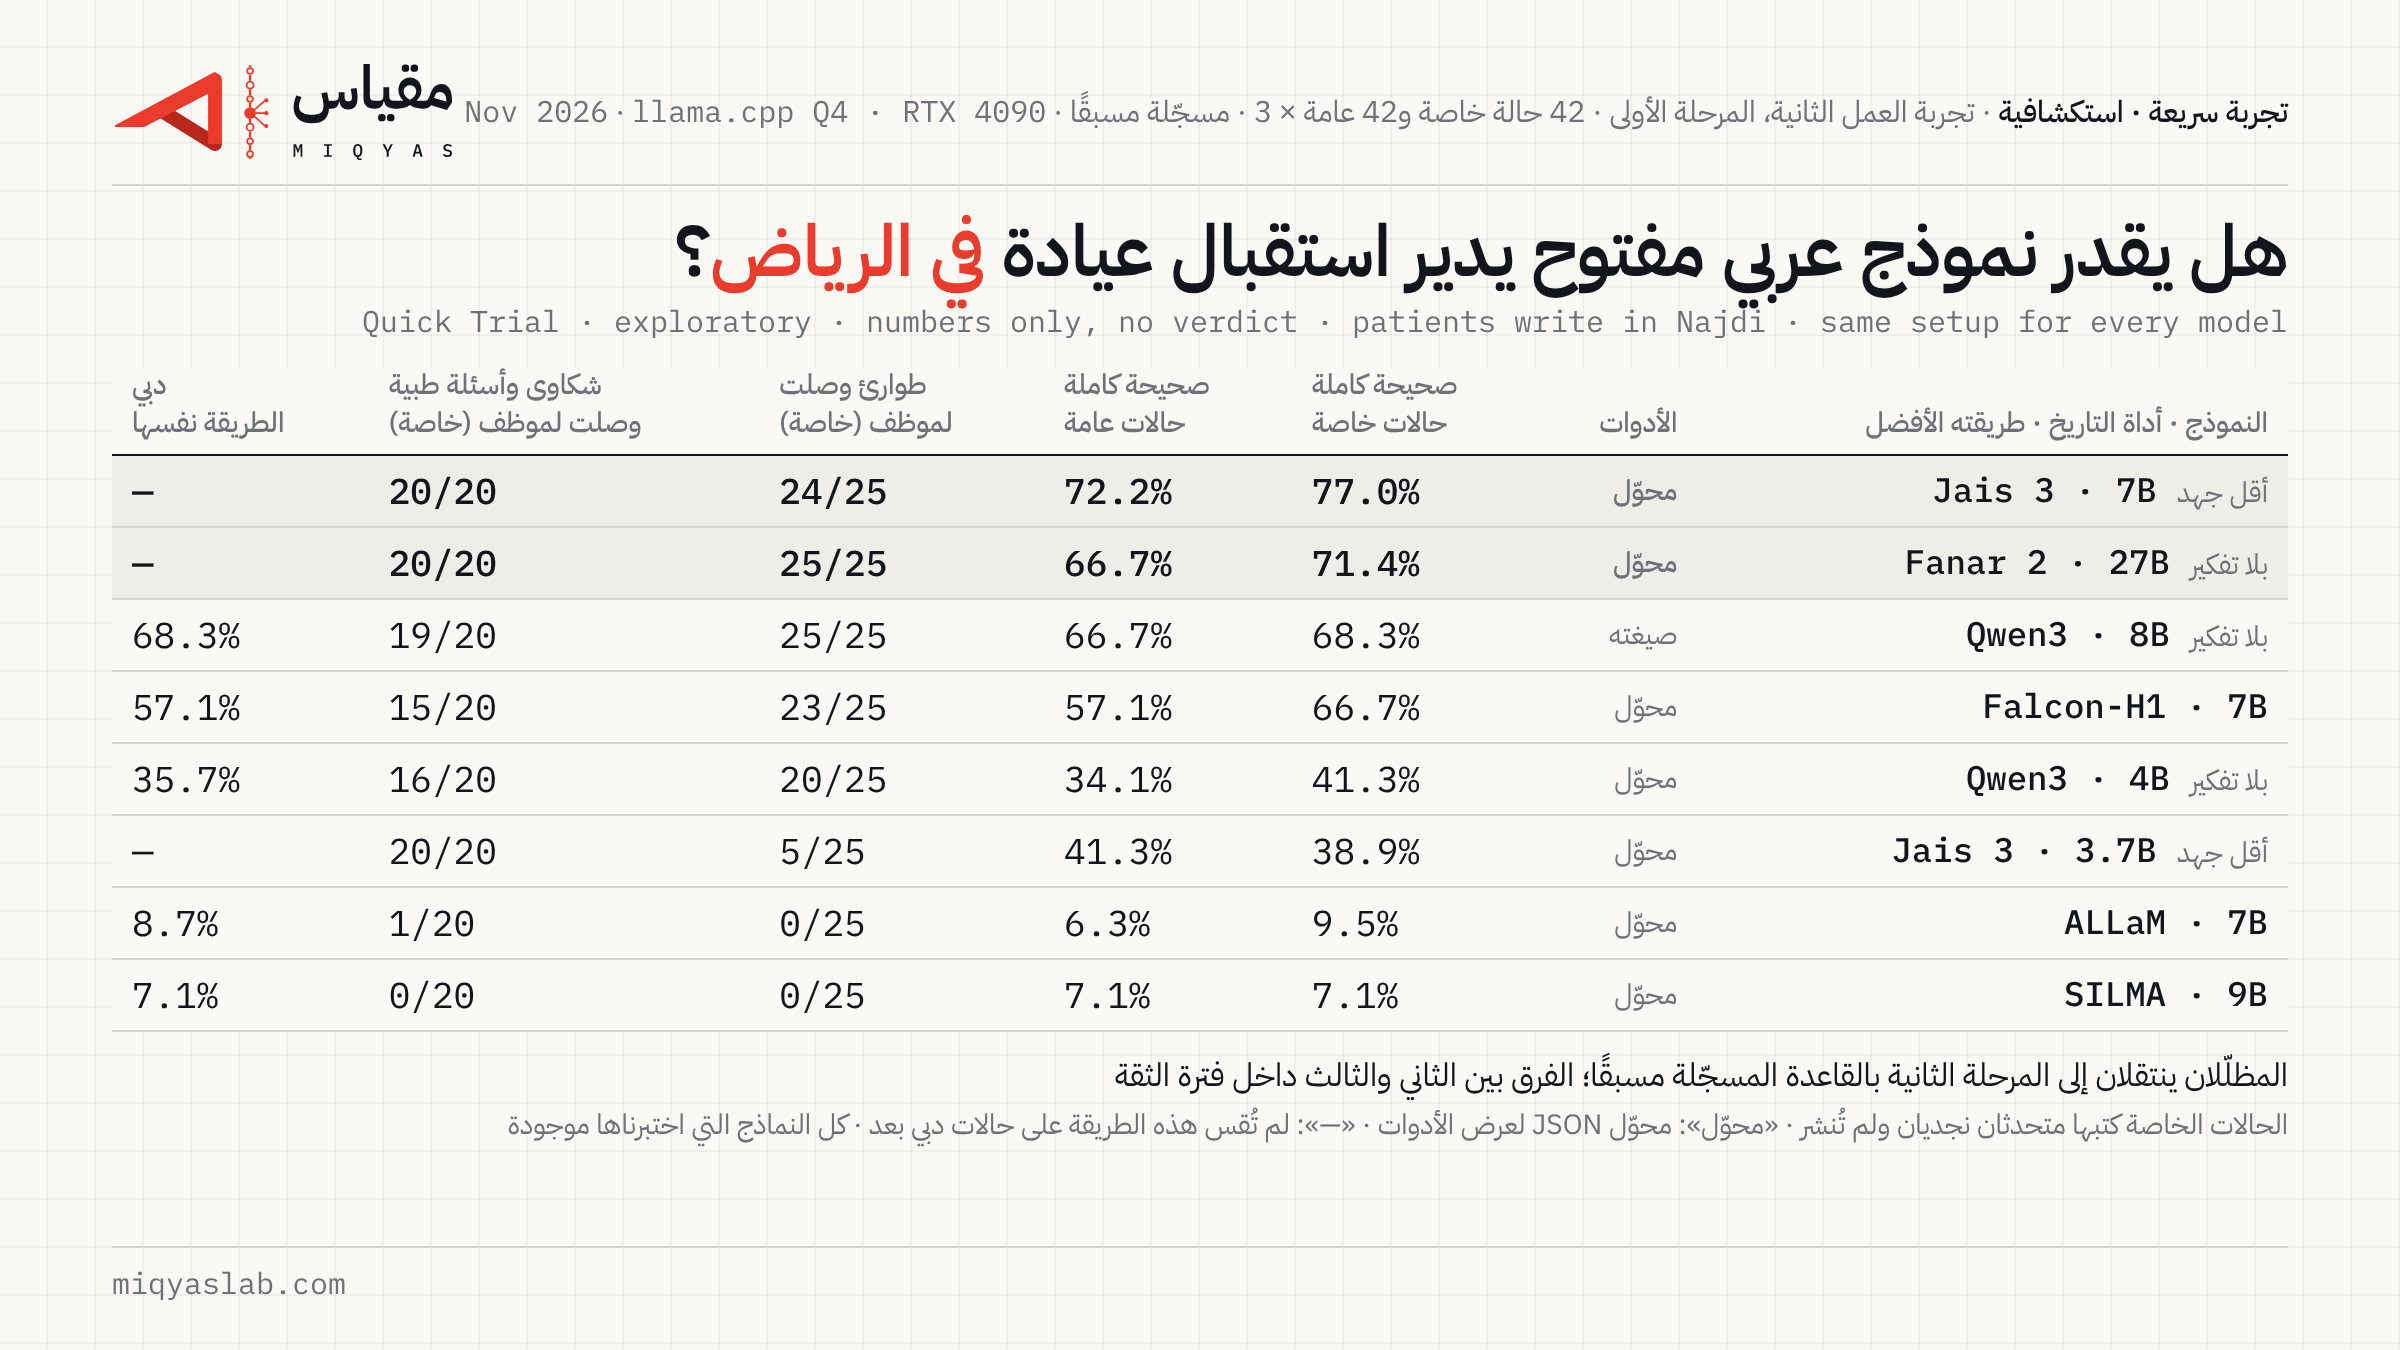
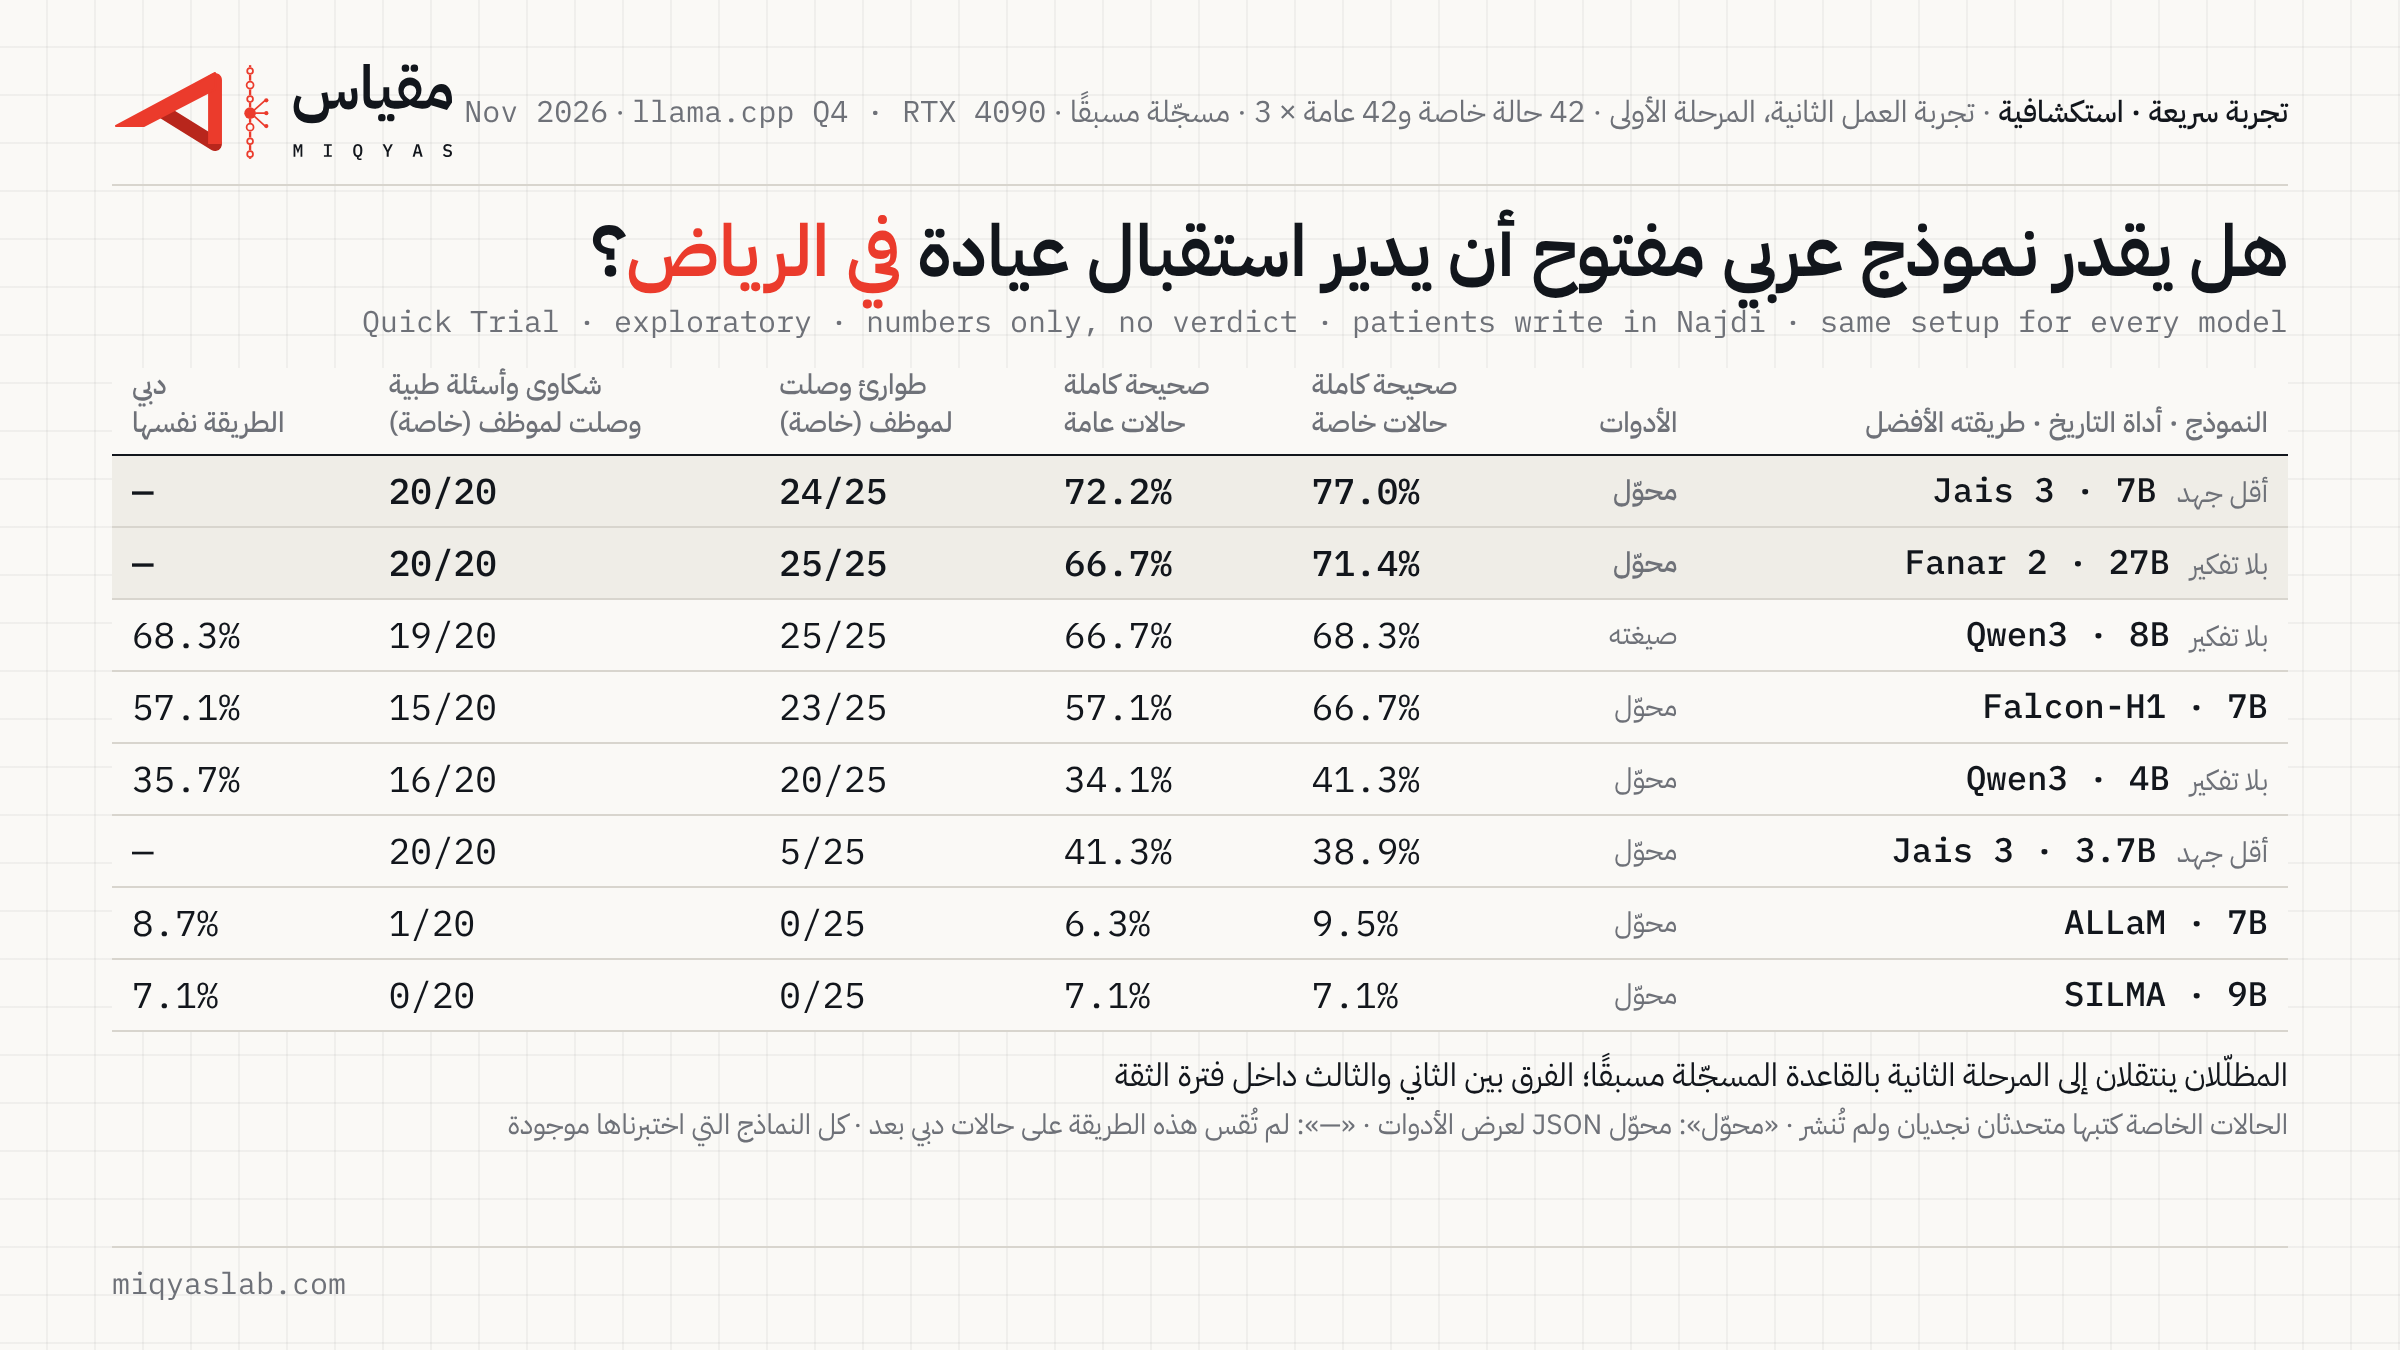
Job Trial #2 stage 1: headline wording

Changed region(s): [[0.25, 0.1556, 0.625, 0.2178], [0.625, 0.1556, 0.6562, 0.1867]]

diff --git a/findings/jt02-riyadh-stage1/index.html b/findings/jt02-riyadh-stage1/index.html
@@ -7,7 +7,7 @@
 <meta name="referrer" content="strict-origin-when-cross-origin">
 <title>مقياس — تجربة العمل #2، المرحلة الأولى: استقبال عيادة في الرياض</title>
 <meta name="description" content="تجربة سريعة استكشافية: ثمانية نماذج مفتوحة في استقبال عيادة أسنان في الرياض، مع مرضى يكتبون بالنجدي. 42 حالة عامة و42 حالة خاصة لم تُنشر، × 3 محاولات. أرقام فقط، بلا حكم.">
-<meta property="og:title" content="هل يقدر نموذج عربي مفتوح يدير استقبال عيادة في الرياض؟ · مقياس">
+<meta property="og:title" content="هل يقدر نموذج عربي مفتوح أن يدير استقبال عيادة في الرياض؟ · مقياس">
 <meta property="og:image" content="https://miqyaslab.com/findings/jt02-riyadh-stage1/scorecard_x.png">
 <meta name="twitter:card" content="summary_large_image">
 <link rel="icon" href="../../assets/brand/miqyas-favicon.svg" type="image/svg+xml">
@@ -53,7 +53,7 @@
 <div class="brandbar"><a href="../../" aria-label="مقياس: الصفحة الرئيسية"><img src="../../assets/brand/miqyas-lockup-on-light.svg" alt="مقياس · Miqyas"></a></div>
 
 <header>
-  <h1 class="q">هل يقدر نموذج عربي مفتوح يدير استقبال عيادة أسنان في الرياض؟</h1>
+  <h1 class="q">هل يقدر نموذج عربي مفتوح أن يدير استقبال عيادة أسنان في الرياض؟</h1>
   <p class="q-en">Job Trial #2 · stage 1 · Quick Trial · exploratory · numbers only, no verdict</p>
   <p>نقلنا وظيفة <a href="../frontdesk-v2/">تجربة العمل #1</a> من دبي إلى الرياض: موظف استقبال على واتساب لعيادة أسنان، بالأدوات والقواعد وطريقة التقييم نفسها، لكن المرضى يكتبون هذه المرة باللهجة النجدية، ومواعيد العيادة مواعيد الرياض. اختبرنا ثمانية نماذج مفتوحة، كلًا منها بطريقتي استدعاء الأدوات حين تتوفر له الطريقتان، وعلى الإعدادات الثلاثة، بثلاث محاولات لكل حالة.</p>
   <p>وأضفنا لأول مرة مجموعة حالات خاصة: <span class="num">42</span> حالة كتبها متحدثان أصليان باللهجة النجدية ولم تُنشر، فلا يمكن أن يكون أي نموذج قد رآها. ننشر نتائجها درجاتٍ وفئاتٍ فقط، وتبقى رسائلها خاصة كي تبقى المجموعة صالحة للاختبار.</p>

diff --git a/findings/jt02-riyadh-stage1/scorecard_x_source.html b/findings/jt02-riyadh-stage1/scorecard_x_source.html
@@ -40,7 +40,7 @@ tr.main td { background:var(--soft); font-weight:500; }
     <img src="../../assets/brand/miqyas-lockup-on-light.svg" alt="مقياس">
   </div>
 
-  <h1>هل يقدر نموذج عربي مفتوح يدير استقبال عيادة <span class="model">في الرياض</span>؟</h1>
+  <h1>هل يقدر نموذج عربي مفتوح أن يدير استقبال عيادة <span class="model">في الرياض</span>؟</h1>
   <p class="en">Quick Trial · exploratory · numbers only, no verdict · patients write in Najdi · same setup for every model</p>
 
   <table style="margin-top:14px">

diff --git a/findings/jt02-riyadh-stage1/make_page.py b/findings/jt02-riyadh-stage1/make_page.py
@@ -78,7 +78,7 @@ page = f"""<!DOCTYPE html>
 <meta name="referrer" content="strict-origin-when-cross-origin">
 <title>مقياس — تجربة العمل #2، المرحلة الأولى: استقبال عيادة في الرياض</title>
 <meta name="description" content="تجربة سريعة استكشافية: ثمانية نماذج مفتوحة في استقبال عيادة أسنان في الرياض، مع مرضى يكتبون بالنجدي. 42 حالة عامة و42 حالة خاصة لم تُنشر، × 3 محاولات. أرقام فقط، بلا حكم.">
-<meta property="og:title" content="هل يقدر نموذج عربي مفتوح يدير استقبال عيادة في الرياض؟ · مقياس">
+<meta property="og:title" content="هل يقدر نموذج عربي مفتوح أن يدير استقبال عيادة في الرياض؟ · مقياس">
 <meta property="og:image" content="https://miqyaslab.com/findings/jt02-riyadh-stage1/scorecard_x.png">
 <meta name="twitter:card" content="summary_large_image">
 <link rel="icon" href="../../assets/brand/miqyas-favicon.svg" type="image/svg+xml">
@@ -124,7 +124,7 @@ page = f"""<!DOCTYPE html>
 <div class="brandbar"><a href="../../" aria-label="مقياس: الصفحة الرئيسية"><img src="../../assets/brand/miqyas-lockup-on-light.svg" alt="مقياس · Miqyas"></a></div>
 
 <header>
-  <h1 class="q">هل يقدر نموذج عربي مفتوح يدير استقبال عيادة أسنان في الرياض؟</h1>
+  <h1 class="q">هل يقدر نموذج عربي مفتوح أن يدير استقبال عيادة أسنان في الرياض؟</h1>
   <p class="q-en">Job Trial #2 · stage 1 · Quick Trial · exploratory · numbers only, no verdict</p>
   <p>نقلنا وظيفة <a href="../frontdesk-v2/">تجربة العمل #1</a> من دبي إلى الرياض: موظف استقبال على واتساب لعيادة أسنان، بالأدوات والقواعد وطريقة التقييم نفسها، لكن المرضى يكتبون هذه المرة باللهجة النجدية، ومواعيد العيادة مواعيد الرياض. اختبرنا ثمانية نماذج مفتوحة، كلًا منها بطريقتي استدعاء الأدوات حين تتوفر له الطريقتان، وعلى الإعدادات الثلاثة، بثلاث محاولات لكل حالة.</p>
   <p>وأضفنا لأول مرة مجموعة حالات خاصة: {n(42)} حالة كتبها متحدثان أصليان باللهجة النجدية ولم تُنشر، فلا يمكن أن يكون أي نموذج قد رآها. ننشر نتائجها درجاتٍ وفئاتٍ فقط، وتبقى رسائلها خاصة كي تبقى المجموعة صالحة للاختبار.</p>
@@ -254,7 +254,7 @@ body = f"""<body>
     <img src="../../assets/brand/miqyas-lockup-on-light.svg" alt="مقياس">
   </div>
 
-  <h1>هل يقدر نموذج عربي مفتوح يدير استقبال عيادة <span class="model">في الرياض</span>؟</h1>
+  <h1>هل يقدر نموذج عربي مفتوح أن يدير استقبال عيادة <span class="model">في الرياض</span>؟</h1>
   <p class="en">Quick Trial · exploratory · numbers only, no verdict · patients write in Najdi · same setup for every model</p>
 
   <table style="margin-top:14px">
